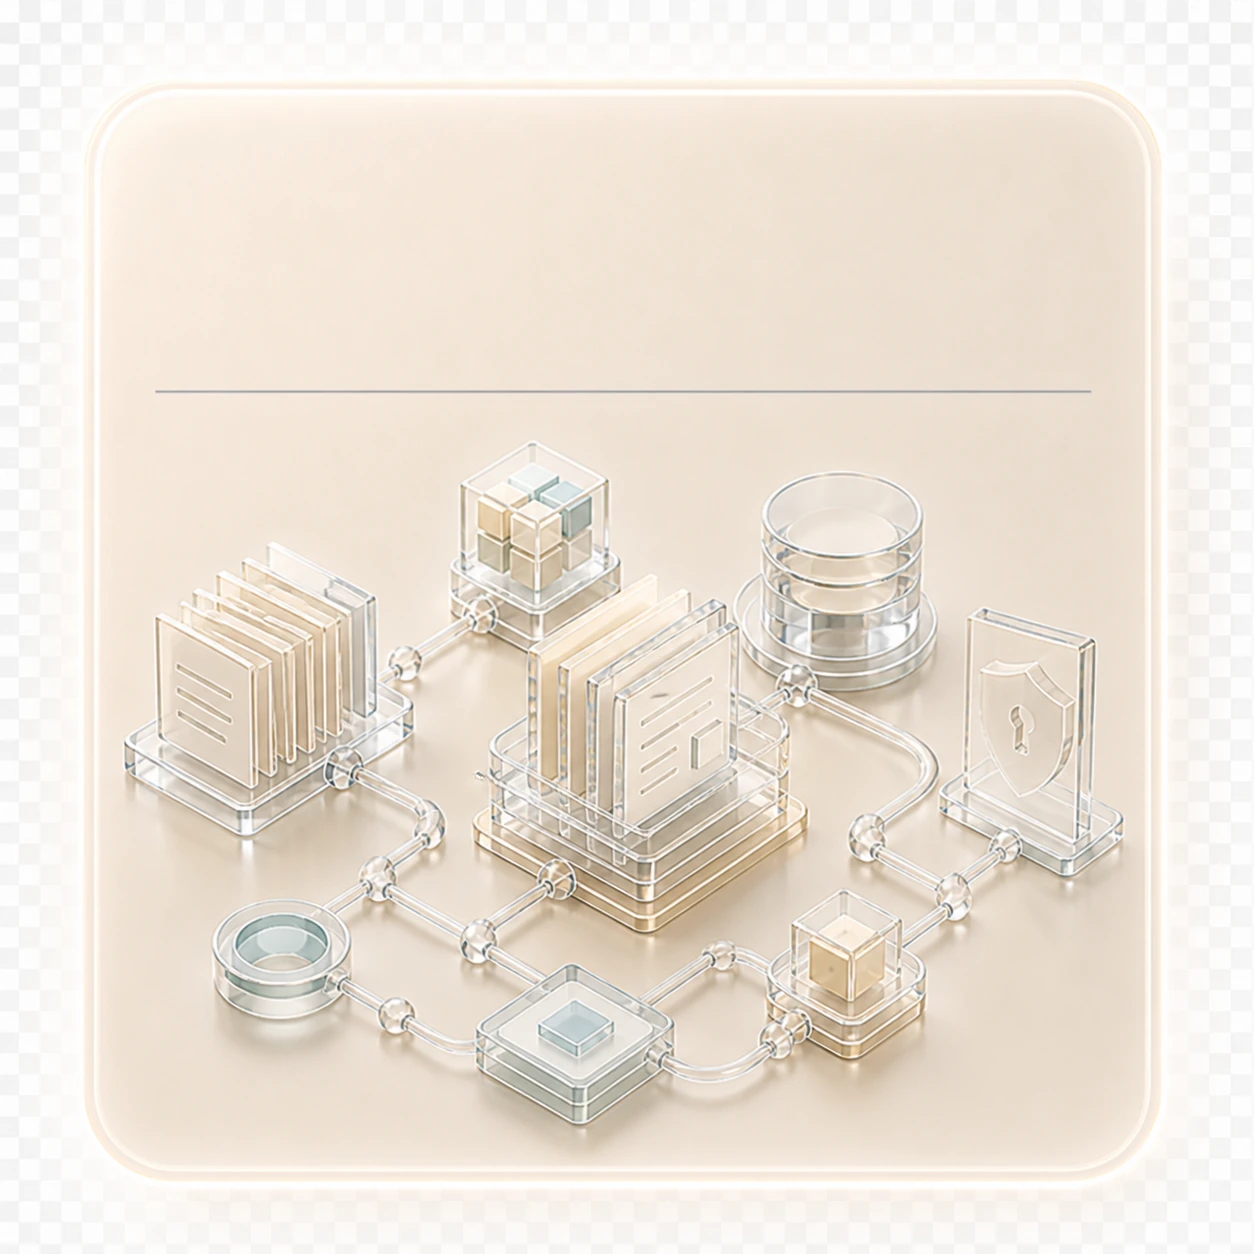
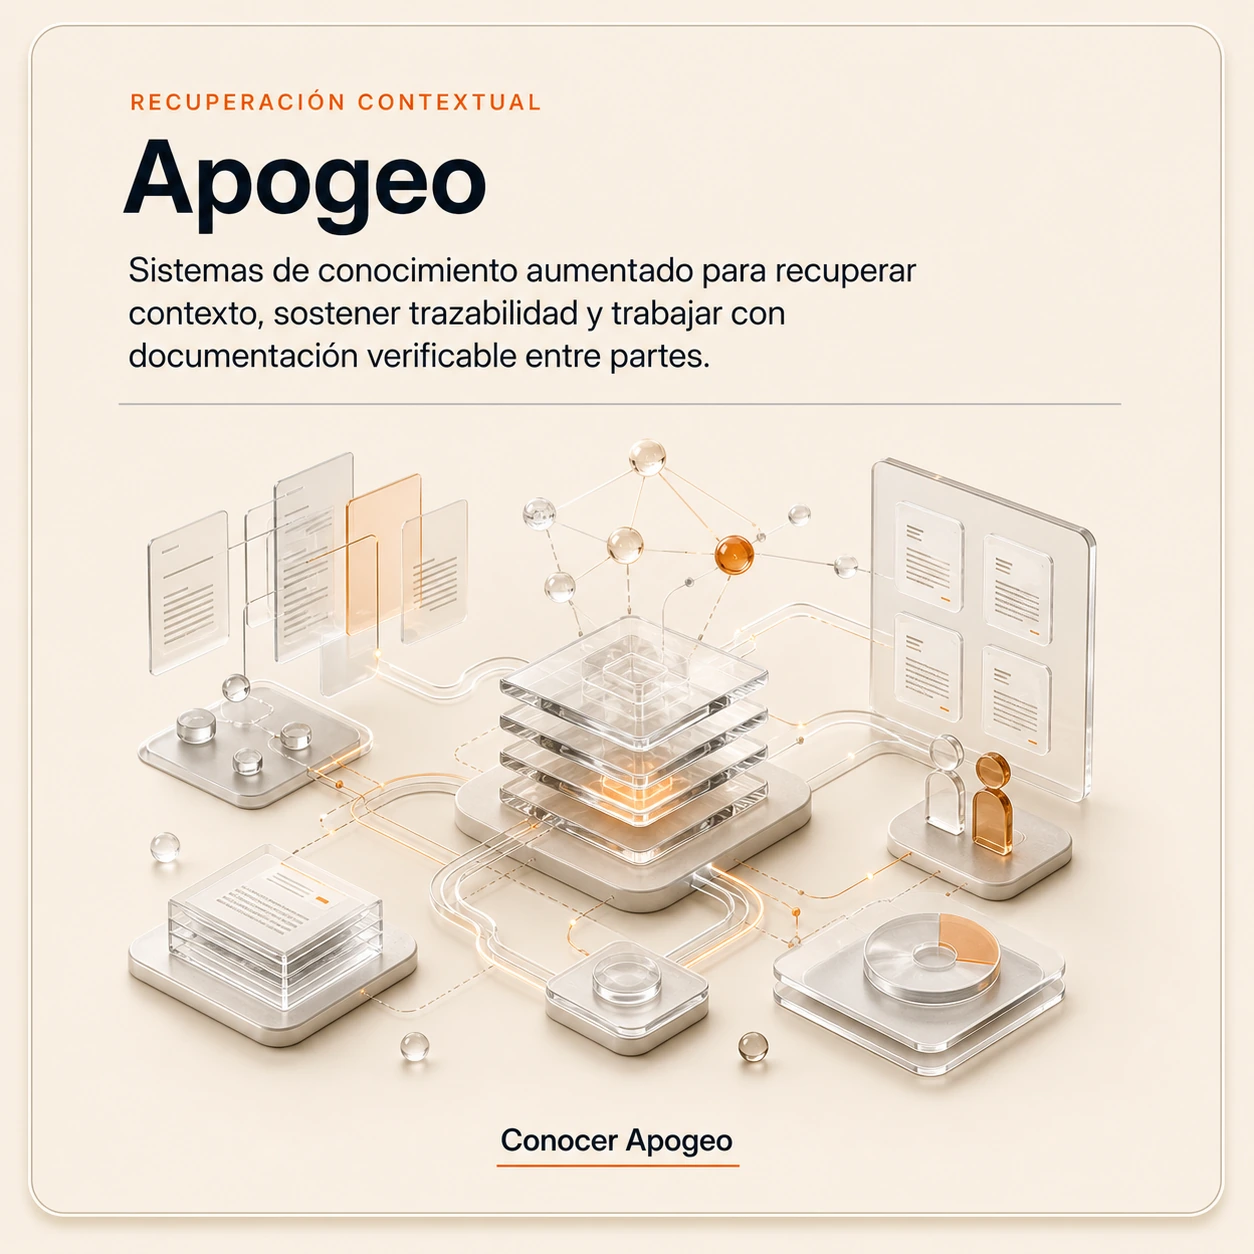
style: use final webp cards on AlmaDesign home

diff --git a/public/assets/css/app.css b/public/assets/css/app.css
@@ -116,6 +116,18 @@ html {
     transform: translateY(0);
 }
 
+.sr-only {
+    position: absolute;
+    width: 1px;
+    height: 1px;
+    padding: 0;
+    margin: -1px;
+    overflow: hidden;
+    clip: rect(0, 0, 0, 0);
+    white-space: nowrap;
+    border: 0;
+}
+
 body {
     position: relative;
     margin: 0;
@@ -580,218 +592,39 @@ summary:focus-visible {
 }
 
 .alma-vertical-card {
-    display: grid;
-    grid-template-rows: auto minmax(220px, 1fr) auto;
     min-width: 0;
-    height: 100%;
-    min-height: 610px;
-    overflow: clip;
-    border: 1px solid rgba(156, 163, 175, 0.5);
-    border-radius: 8px;
+}
+
+.alma-vertical-card__link {
+    display: block;
+    overflow: hidden;
+    aspect-ratio: 1 / 1;
+    border: 1px solid rgba(17, 24, 39, 0.18);
+    border-radius: 18px;
     background: var(--beige);
-    box-shadow: 0 10px 24px rgba(17, 24, 39, 0.06);
+    box-shadow: 0 12px 28px rgba(17, 24, 39, 0.08);
     cursor: pointer;
-    transition: border-color 180ms ease, box-shadow 180ms ease, opacity 180ms ease, transform 180ms ease;
+    transition: opacity 200ms ease, transform 200ms ease, border-color 200ms ease, box-shadow 200ms ease;
 }
 
-.alma-vertical-card:hover,
-.alma-vertical-card:focus-within {
-    border-color: rgba(249, 115, 22, 0.7);
-    box-shadow: 0 16px 36px rgba(17, 24, 39, 0.1), 0 0 0 1px rgba(249, 115, 22, 0.18);
+.alma-vertical-card__link:hover,
+.alma-vertical-card__link:focus-visible {
+    opacity: 0.9;
+    border-color: var(--naranja);
+    box-shadow: 0 16px 34px rgba(17, 24, 39, 0.12), 0 0 0 1px rgba(249, 115, 22, 0.16);
 }
 
-.alma-vertical-card:hover .alma-vertical-card__cta,
-.alma-vertical-card:focus-within .alma-vertical-card__cta {
-    color: var(--tinta);
-    border-bottom-color: var(--naranja);
+.alma-vertical-card__link:focus-visible {
+    outline: 3px solid rgba(249, 115, 22, 0.46);
+    outline-offset: 5px;
 }
 
-.alma-vertical-card__header {
-    display: grid;
-    align-content: start;
-    gap: 16px;
-    min-height: 260px;
-    padding: 32px 30px 22px;
-}
-
-.alma-vertical-card__label {
-    color: var(--naranja);
-    font-size: 0.72rem;
-    font-weight: 700;
-    letter-spacing: 0.14em;
-    text-transform: uppercase;
-}
-
-.alma-vertical-card__title {
-    margin-bottom: 0;
-    color: var(--tinta);
-    font-family: var(--serif);
-    font-size: clamp(2rem, 2.4vw, 2.85rem);
-    line-height: 1.02;
-    letter-spacing: -0.015em;
-}
-
-.alma-vertical-card__summary {
-    margin: 0;
-    color: var(--tinta);
-    font-family: var(--sans);
-    font-size: 1rem;
-    line-height: 1.55;
-}
-
-.alma-vertical-card__rule {
+.alma-vertical-card__image {
     display: block;
     width: 100%;
-    height: 1px;
-    margin-top: 2px;
-    background: var(--gris-humo);
-}
-
-.alma-vertical-card__media {
-    position: relative;
-    display: grid;
+    height: 100%;
     aspect-ratio: 1 / 1;
-    margin: 0 30px 24px;
-    overflow: clip;
-    border: 1px solid rgba(156, 163, 175, 0.52);
-    border-radius: 8px;
-    background:
-        radial-gradient(circle at 22% 78%, rgba(249, 115, 22, 0.14), transparent 20%),
-        radial-gradient(circle at 78% 22%, rgba(17, 24, 39, 0.1), transparent 22%),
-        linear-gradient(135deg, var(--beige), var(--beige-humano));
-    transition: opacity 180ms ease;
-}
-
-.alma-vertical-card:hover .alma-vertical-card__media,
-.alma-vertical-card:focus-within .alma-vertical-card__media {
-    opacity: 0.9;
-}
-
-.alma-vertical-card__media::before,
-.alma-vertical-card__media::after {
-    position: absolute;
-    content: "";
-}
-
-.alma-vertical-card__media::before {
-    right: 12%;
-    bottom: 18%;
-    left: 12%;
-    height: 1px;
-    background: rgba(156, 163, 175, 0.9);
-}
-
-.alma-vertical-card__media::after {
-    right: 14%;
-    bottom: 18%;
-    width: 33%;
-    height: 1px;
-    background: var(--naranja);
-}
-
-.alma-vertical-card__media span {
-    position: absolute;
-    display: block;
-    border: 1px solid rgba(17, 24, 39, 0.24);
-    border-radius: 8px;
-    background: rgba(244, 234, 220, 0.72);
-    box-shadow: inset 0 0 0 1px rgba(244, 234, 220, 0.38);
-}
-
-.alma-vertical-card__media span:nth-child(1) {
-    top: 17%;
-    left: 14%;
-    width: 24%;
-    height: 24%;
-}
-
-.alma-vertical-card__media span:nth-child(2) {
-    top: 36%;
-    left: 34%;
-    width: 32%;
-    height: 19%;
-}
-
-.alma-vertical-card__media span:nth-child(3) {
-    top: 22%;
-    right: 13%;
-    width: 25%;
-    height: 25%;
-    border-color: rgba(249, 115, 22, 0.48);
-}
-
-.alma-vertical-card__media span:nth-child(4) {
-    right: 25%;
-    bottom: 25%;
-    width: 18%;
-    height: 18%;
-    border-radius: 50%;
-}
-
-.alma-vertical-card__media span:nth-child(5) {
-    bottom: 27%;
-    left: 20%;
-    width: 22%;
-    height: 12%;
-    border-color: rgba(156, 163, 175, 0.62);
-}
-
-.alma-vertical-card--consulting .alma-vertical-card__media span:nth-child(1) {
-    border-radius: 50%;
-}
-
-.alma-vertical-card--consulting .alma-vertical-card__media span:nth-child(2) {
-    border-color: rgba(249, 115, 22, 0.42);
-}
-
-.alma-vertical-card--apogeo .alma-vertical-card__media span:nth-child(1),
-.alma-vertical-card--apogeo .alma-vertical-card__media span:nth-child(3) {
-    border-radius: 3px;
-}
-
-.alma-vertical-card--apogeo .alma-vertical-card__media span:nth-child(2) {
-    width: 28%;
-    height: 28%;
-    border-color: rgba(17, 24, 39, 0.3);
-}
-
-.alma-vertical-card--humans .alma-vertical-card__media span:nth-child(1),
-.alma-vertical-card--humans .alma-vertical-card__media span:nth-child(4) {
-    border-radius: 50%;
-    border-color: rgba(249, 115, 22, 0.45);
-}
-
-.alma-vertical-card--humans .alma-vertical-card__media span:nth-child(2) {
-    border-radius: 999px;
-}
-
-.alma-vertical-card__footer {
-    display: flex;
-    align-items: end;
-    padding: 0 30px 32px;
-}
-
-.alma-vertical-card__cta {
-    display: inline-flex;
-    width: max-content;
-    max-width: 100%;
-    align-items: center;
-    min-height: 38px;
-    border-bottom: 1px solid rgba(249, 115, 22, 0.72);
-    color: var(--tinta);
-    font-weight: 500;
-    text-decoration: none;
-    transition: color 180ms ease, transform 180ms ease;
-}
-
-.alma-vertical-card__cta:hover {
-    color: var(--naranja);
-}
-
-.alma-vertical-card__cta:focus-visible {
-    border-radius: 6px;
-    outline: 3px solid rgba(249, 115, 22, 0.46);
-    outline-offset: 4px;
+    object-fit: cover;
 }
 
 .home-third--verticals h2,
@@ -799,8 +632,7 @@ summary:focus-visible {
     color: var(--tinta);
 }
 
-.home-third--verticals .eyebrow,
-.home-third--verticals .alma-vertical-card__label {
+.home-third--verticals .eyebrow {
     color: var(--naranja);
 }
 
@@ -1759,23 +1591,6 @@ details p {
         font-size: 1.06rem;
     }
 
-    .alma-vertical-card {
-        min-height: auto;
-    }
-
-    .alma-vertical-card__header {
-        min-height: auto;
-        padding: 24px 22px 18px;
-    }
-
-    .alma-vertical-card__media {
-        margin: 0 22px 20px;
-    }
-
-    .alma-vertical-card__footer {
-        padding: 0 22px 24px;
-    }
-
     .home-third--hero {
         min-height: 80vh;
     }
@@ -1833,15 +1648,9 @@ details p {
         transform: translateY(-2px);
     }
 
-    .alma-vertical-card:hover,
-    .alma-vertical-card:focus-within {
+    .alma-vertical-card__link:hover,
+    .alma-vertical-card__link:focus-visible {
         transform: translateY(-3px);
-    }
-
-    .alma-vertical-card:hover .alma-vertical-card__cta,
-    .alma-vertical-card:focus-within .alma-vertical-card__cta,
-    .alma-vertical-card__cta:hover {
-        transform: translateX(3px);
     }
 
     .reveal-ready {

diff --git a/app/Views/pages/home.php b/app/Views/pages/home.php
@@ -9,6 +9,8 @@ $verticals = [
         'summary' => 'Ordenamos fricciones internas, procesos y criterios para implementar IA con claridad, control y adopción responsable.',
         'cta' => 'Solicitar diagnóstico',
         'label' => 'CONSULTORÍA IA EMPRESAS',
+        'image' => 'img/cards/consultoria-ia-procesos.webp',
+        'accessible' => 'Consultoría IA y procesos. Ordenamos fricciones internas, procesos y criterios para implementar IA con claridad, control y adopción responsable.',
     ],
     [
         'title' => 'Apogeo',
@@ -17,6 +19,8 @@ $verticals = [
         'summary' => 'Sistemas de conocimiento aumentado para recuperar contexto, sostener trazabilidad y trabajar con documentación verificable entre partes.',
         'cta' => 'Conocer Apogeo',
         'label' => 'RECUPERACIÓN CONTEXTUAL',
+        'image' => 'img/cards/apogeo.webp',
+        'accessible' => 'Apogeo. Sistemas de conocimiento aumentado para recuperar contexto, sostener trazabilidad y trabajar con documentación verificable entre partes.',
     ],
     [
         'title' => 'AI for Humans',
@@ -25,6 +29,8 @@ $verticals = [
         'summary' => 'IA gobernada para proteger, potenciar y no reemplazar al humano en sus decisiones, procesos y capacidades.',
         'cta' => 'Explorar AI for Humans',
         'label' => 'DECISIONES HUMANAS COMPLEJAS',
+        'image' => 'img/cards/ai-for-humans.webp',
+        'accessible' => 'AI for Humans. IA gobernada para proteger, potenciar y no reemplazar al humano en sus decisiones, procesos y capacidades.',
     ],
 ];
 
@@ -109,22 +115,17 @@ $methodSteps = [
                 <div class="alma-vertical-card-grid">
                     <?php foreach ($verticals as $vertical): ?>
                         <article class="alma-vertical-card alma-vertical-card--<?= e($vertical['variant']) ?>">
-                            <header class="alma-vertical-card__header">
-                                <span class="alma-vertical-card__label"><?= e($vertical['label']) ?></span>
-                                <h3 class="alma-vertical-card__title"><?= e($vertical['title']) ?></h3>
-                                <p class="alma-vertical-card__summary"><?= e($vertical['summary']) ?></p>
-                                <div class="alma-vertical-card__rule" aria-hidden="true"></div>
-                            </header>
-                            <div class="alma-vertical-card__media" aria-hidden="true">
-                                <span></span>
-                                <span></span>
-                                <span></span>
-                                <span></span>
-                                <span></span>
-                            </div>
-                            <footer class="alma-vertical-card__footer">
-                                <a class="alma-vertical-card__cta" href="<?= e($vertical['href']) ?>" aria-label="<?= e($vertical['title'] . ': ' . $vertical['cta']) ?>"><?= e($vertical['cta']) ?></a>
-                            </footer>
+                            <a class="alma-vertical-card__link" href="<?= e($vertical['href']) ?>" aria-label="<?= e($vertical['title'] . ': ' . $vertical['cta']) ?>">
+                                <img
+                                    class="alma-vertical-card__image"
+                                    src="<?= e(asset($vertical['image'])) ?>"
+                                    alt="<?= e($vertical['accessible']) ?>"
+                                    loading="lazy"
+                                    width="1254"
+                                    height="1254"
+                                >
+                                <span class="sr-only"><?= e($vertical['accessible']) ?></span>
+                            </a>
                         </article>
                     <?php endforeach; ?>
                 </div>